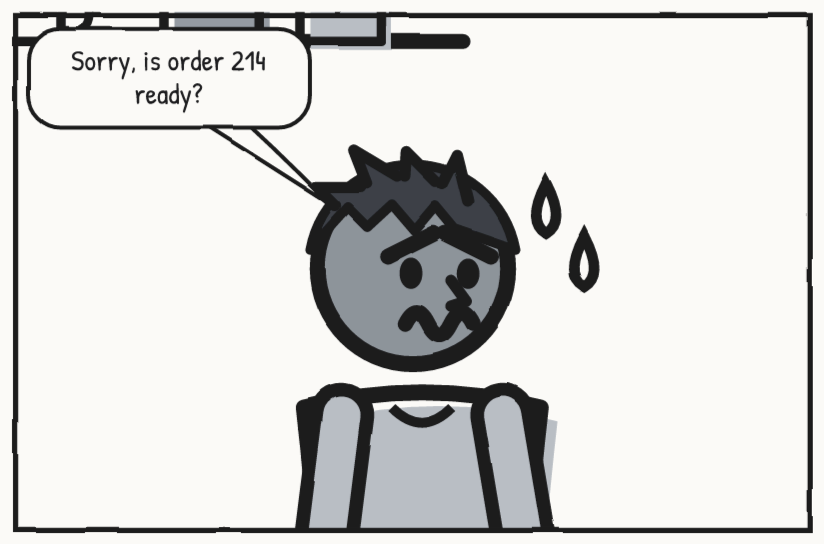
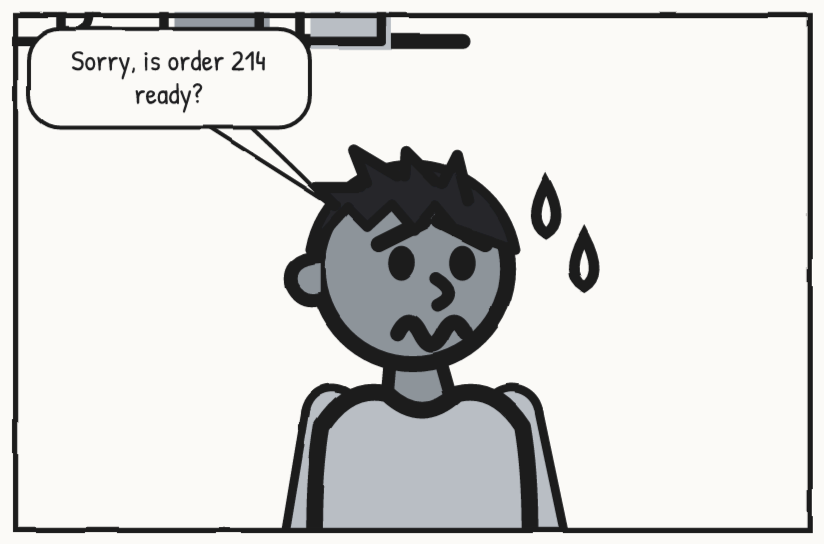
Updates

Changed region(s): [[0.3337, 0.3125, 0.6978, 0.9688], [0.3337, 0.4688, 0.3944, 0.5625]]

diff --git a/vendor/sketch/json.ts b/vendor/sketch/json.ts
@@ -63,6 +63,10 @@ export function applyOps<T>(doc: T, ops: Op[]): T {
       pruneEmpty(root, op.path.slice(0, -1));
     } else if (op.insert && Array.isArray(cur) && typeof last === "number") {
       cur.splice(last, 0, op.value);
+    } else if (Array.isArray(cur) && typeof last === "number" && last > cur.length) {
+      // an index past the end (the list got shorter since the edit was worked out): add it at the end,
+      // never leave a gap, which wouldn't even be valid JSON on disk
+      cur.push(op.value);
     } else {
       cur[last] = op.value;
     }

diff --git a/README.md b/README.md
@@ -7,7 +7,7 @@ questions are, pulls in the storyboard panel or wireframe screen that shows the 
 you push things around, add more, and present it. It's for thinking out loud, by yourself, before anything is
 real.
 
-![Flowchart Kit sizzle reel](docs/sizzle-bfb39fd.gif)
+![Flowchart Kit sizzle reel](docs/sizzle-0355190.gif)
 
 ## Why though
 
@@ -19,7 +19,7 @@ So that's what this is: a marker-and-paper canvas where your agent does the bori
 routing the arrows, finding room for the next frame) and you do the thinking. Everything's drawn by hand, so
 nobody mistakes it for a spec.
 
-![A whole board: numbered frames, each with a plain description, and notes tied to what they're about](docs/board-173986e.png)
+![A whole board: numbered frames, each with a plain description, and notes tied to what they're about](docs/board-6720ba8.png)
 
 ## Frames are the story
 
@@ -50,7 +50,7 @@ Flowchart Kit works great on its own. It's also the canvas where the other two k
 [Wireframe Kit](https://github.com/jnemargut/wireframe-kit) draws low-fi screens and flows. Put either on a board
 as a **card**: a whole storyboard, one panel, a whole flow, or one screen.
 
-![Cards: the order status screen and a storyboard panel, right in the flow](docs/cards-d2bd5e2.png)
+![Cards: the order status screen and a storyboard panel, right in the flow](docs/cards-a576cda.png)
 
 Cards point at the files (`"ref": "./late-latte.storyboard.json#asks"`), so they're never stale copies. Change
 the storyboard and the card catches up on its own. Copy a panel in Storyboard Kit, or a screen in Wireframe Kit,
@@ -179,7 +179,7 @@ what's installed.
 
 ## The editor bits
 
-![The editor: palette, stamps, cards nearby, and a selected step](docs/editor-392a615.png)
+![The editor: palette, stamps, cards nearby, and a selected step](docs/editor-0a94b70.png)
 
 **Flowing**
 
@@ -220,7 +220,7 @@ add it next to what's selected, or drag it wherever you like.
 
 ## Present it
 
-![Play: a frame as a slide, sharpie, speaker notes and the slide strip](docs/play-29306a9.png)
+![Play: a frame as a slide, sharpie, speaker notes and the slide strip](docs/play-da022a5.png)
 
 Hit **Play** (or P). Each frame is a slide, in the order you set in the board's inspector, with a fade or a cut
 between them. No frames? You get the whole board. The slide is all that's on screen: the controls are a small
